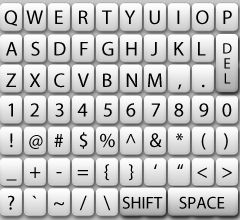
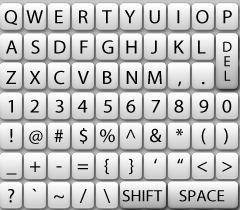
exit button, network/interface syntax
included exit button and fix typos and syntax of written network file.

diff --git a/sandbox.py b/sandbox.py
@@ -15,18 +15,23 @@ pygame.init()
 
 modes = pygame.display.list_modes(16)
 #screen = pygame.display.set_mode(modes[0], FULLSCREEN, 16)
+
 screen = pygame.display.set_mode((240,320))
+
+#pygame.mouse.set_visible(False)
 font1 = pygame.font.Font(None, 24)
 white = 255,255,255
 black = 0,0,0
 grey = 200,200,200
-green = 0,204,0
+green = 0,200,0
+red = 200,0,0
 wpa = {"ssid":"","pass":""}
 caps = False
 focus = "ssid"
 back = "back"
 space = ""
 shift = "shift"
+#keyboard = pygame.image.load("/home/pi/psd/keyboard.png").convert()
 keyboard = pygame.image.load("keyboard.png").convert()
 alphabet = [['Q','W','E','R','T','Y','U','I','O','P'],
             ['A','S','D','F','G','H','J','K','L',back],
@@ -39,10 +44,10 @@ mouse_down = mouse_up = 0
 mouse_down_x = mouse_down_y = 0
 
 def submit(wpa):
-    fo = open("/etc/network/meow", "w") #TODO change to /etc/network/interfaces
+    fo = open("/etc/network/interfaces", "w")
     new_settings =  "auto lo\niface lo inet loopback\niface eth0 inet dhcp\n"+\
                     "allow-hotplug wlan0\nauto wlan\n"+"iface wlan0 inet dhcp\n"+\
-                    "        wpa-ssid '%s'\n        wpa-psk '%s'"\
+                    '        wpa-ssid "%s"\n        wpa-psk "%s"'\
                     % (wpa["ssid"], wpa["pass"])
     fo.write(new_settings)
     fo.close()
@@ -68,7 +73,10 @@ def key_touch(x,y):
                     key = key.lower()
             wpa[focus] = wpa[focus] + key
     elif x >165 :
-        submit(wpa);
+        if y < 55:
+            submit(wpa);
+        else:
+            sys.exit()
     elif y < 55:
         focus = "ssid"
     else:
@@ -84,7 +92,7 @@ while True:
             key_touch(mouse_down_x,mouse_down_y)
 
     screen.fill((grey))
-    screen.blit(keyboard, (0,106)) #fix keyboard.png to fix 7 rows or 30 pixels
+    screen.blit(keyboard, (0,110)) #fix keyboard.png to fix 7 rows or 30 pixels
 
     if caps is True:
         print_text(font1, 80,10, "Capslock")
@@ -102,8 +110,12 @@ while True:
     else:
         pygame.draw.rect(screen, black, (5,75,155,20),2)
 
-    pygame.draw.rect(screen, black, (165,15,70,80),2)
-    pygame.draw.rect(screen, green, (165,15,70,80))
-    print_text(font1, 173,45, "Submit")
+    pygame.draw.rect(screen, black, (165,5,70,50),2)
+    pygame.draw.rect(screen, green, (165,5,70,50))
+    print_text(font1, 172,25, "Submit")
+
+    pygame.draw.rect(screen, black, (165,60,70,50),2)
+    pygame.draw.rect(screen, red, (165,60,70,50))
+    print_text(font1, 186,79, "Exit")
 
     pygame.display.update()
